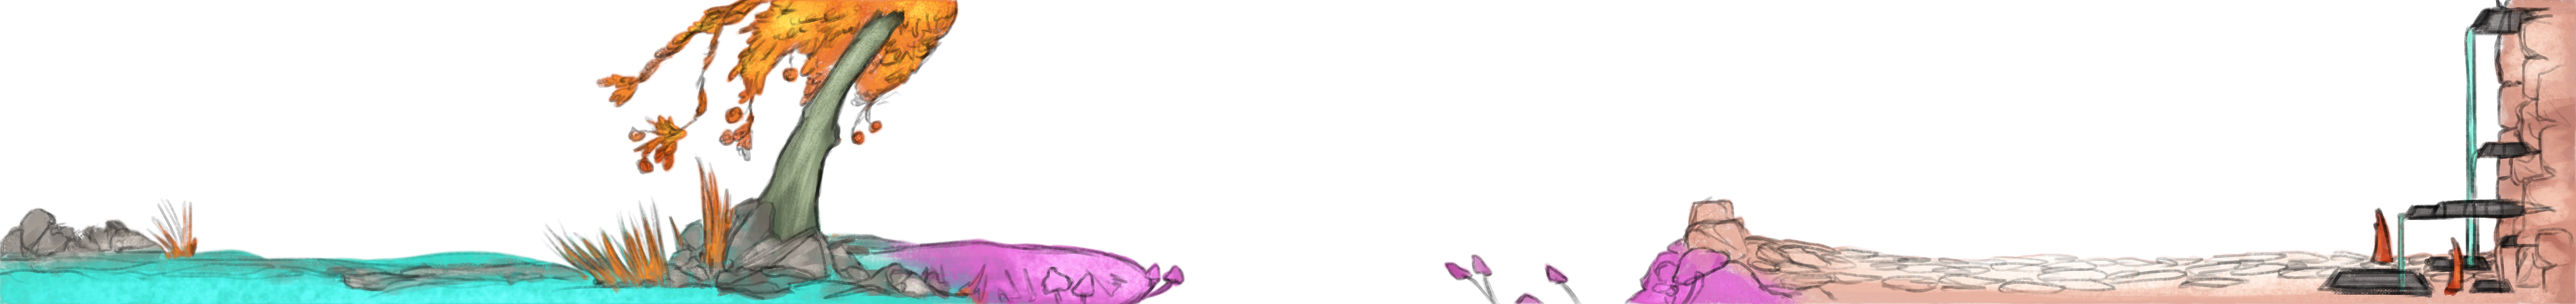
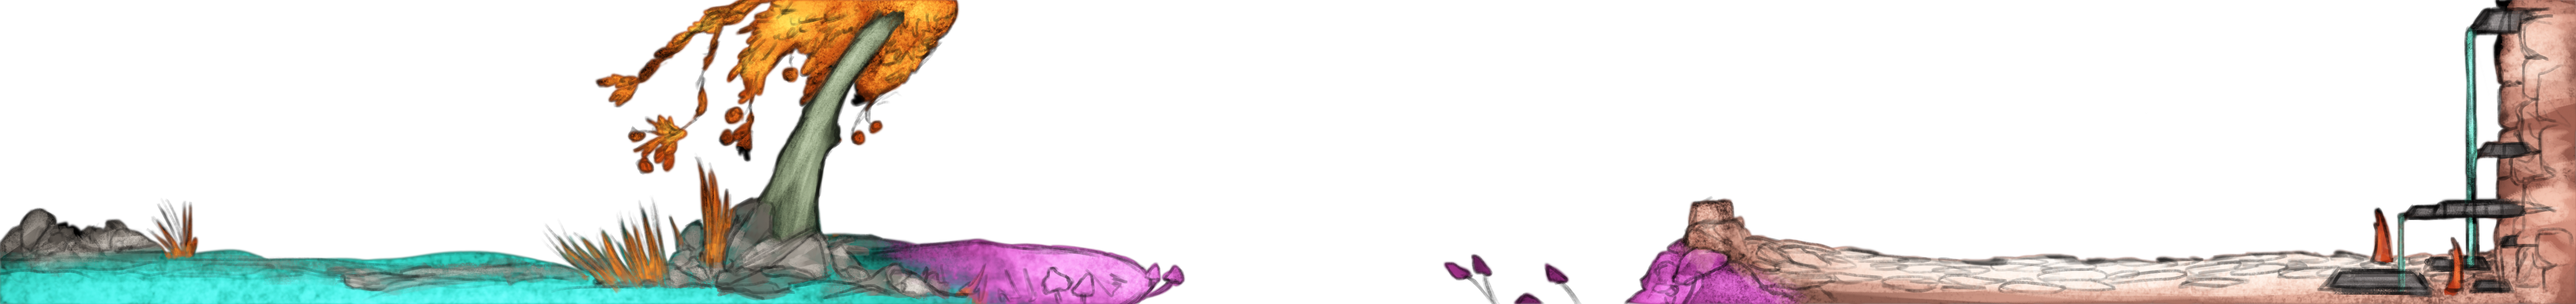
# darkened some of the layer backgrounds # rearrenged css elements and added top margin

diff --git a/soafp.scss b/soafp.scss
@@ -1,8 +1,8 @@
-body {
-  background-color: white;
-}
 * {
   margin-left: 0;
+}
+body {
+  background-color: black;
 }
 .container {
    width: 5760px;
@@ -10,6 +10,7 @@ body {
   background-position: top;
   position: relative;
   overflow: hidden;
+  margin-top: 50px;
 }
 .layer {
   position: absolute;
@@ -37,8 +38,7 @@ body {
 }
 .filter{
   width: 1920px;
- height: 850px;
- background-position: top;
+ height: 1000px;
  top:0;
  left:0;
  position: absolute;

diff --git a/soafp.css b/soafp.css
@@ -1,9 +1,9 @@
-body {
-  background-color: white;
-}
-
 * {
   margin-left: 0;
+}
+
+body {
+  background-color: black;
 }
 
 .container {
@@ -12,6 +12,7 @@ body {
   background-position: top;
   position: relative;
   overflow: hidden;
+  margin-top: 50px;
 }
 
 .layer {
@@ -41,8 +42,7 @@ body {
 
 .filter {
   width: 1920px;
-  height: 850px;
-  background-position: top;
+  height: 1000px;
   top: 0;
   left: 0;
   position: absolute;

diff --git a/soafp.html b/soafp.html
@@ -21,8 +21,6 @@
       <img class = "layer" id = "layer5"  src="resources/front.png" alt="yee">
       <div class="filter">
       </div>
-
-
     </div>
   </body>
 </html>
